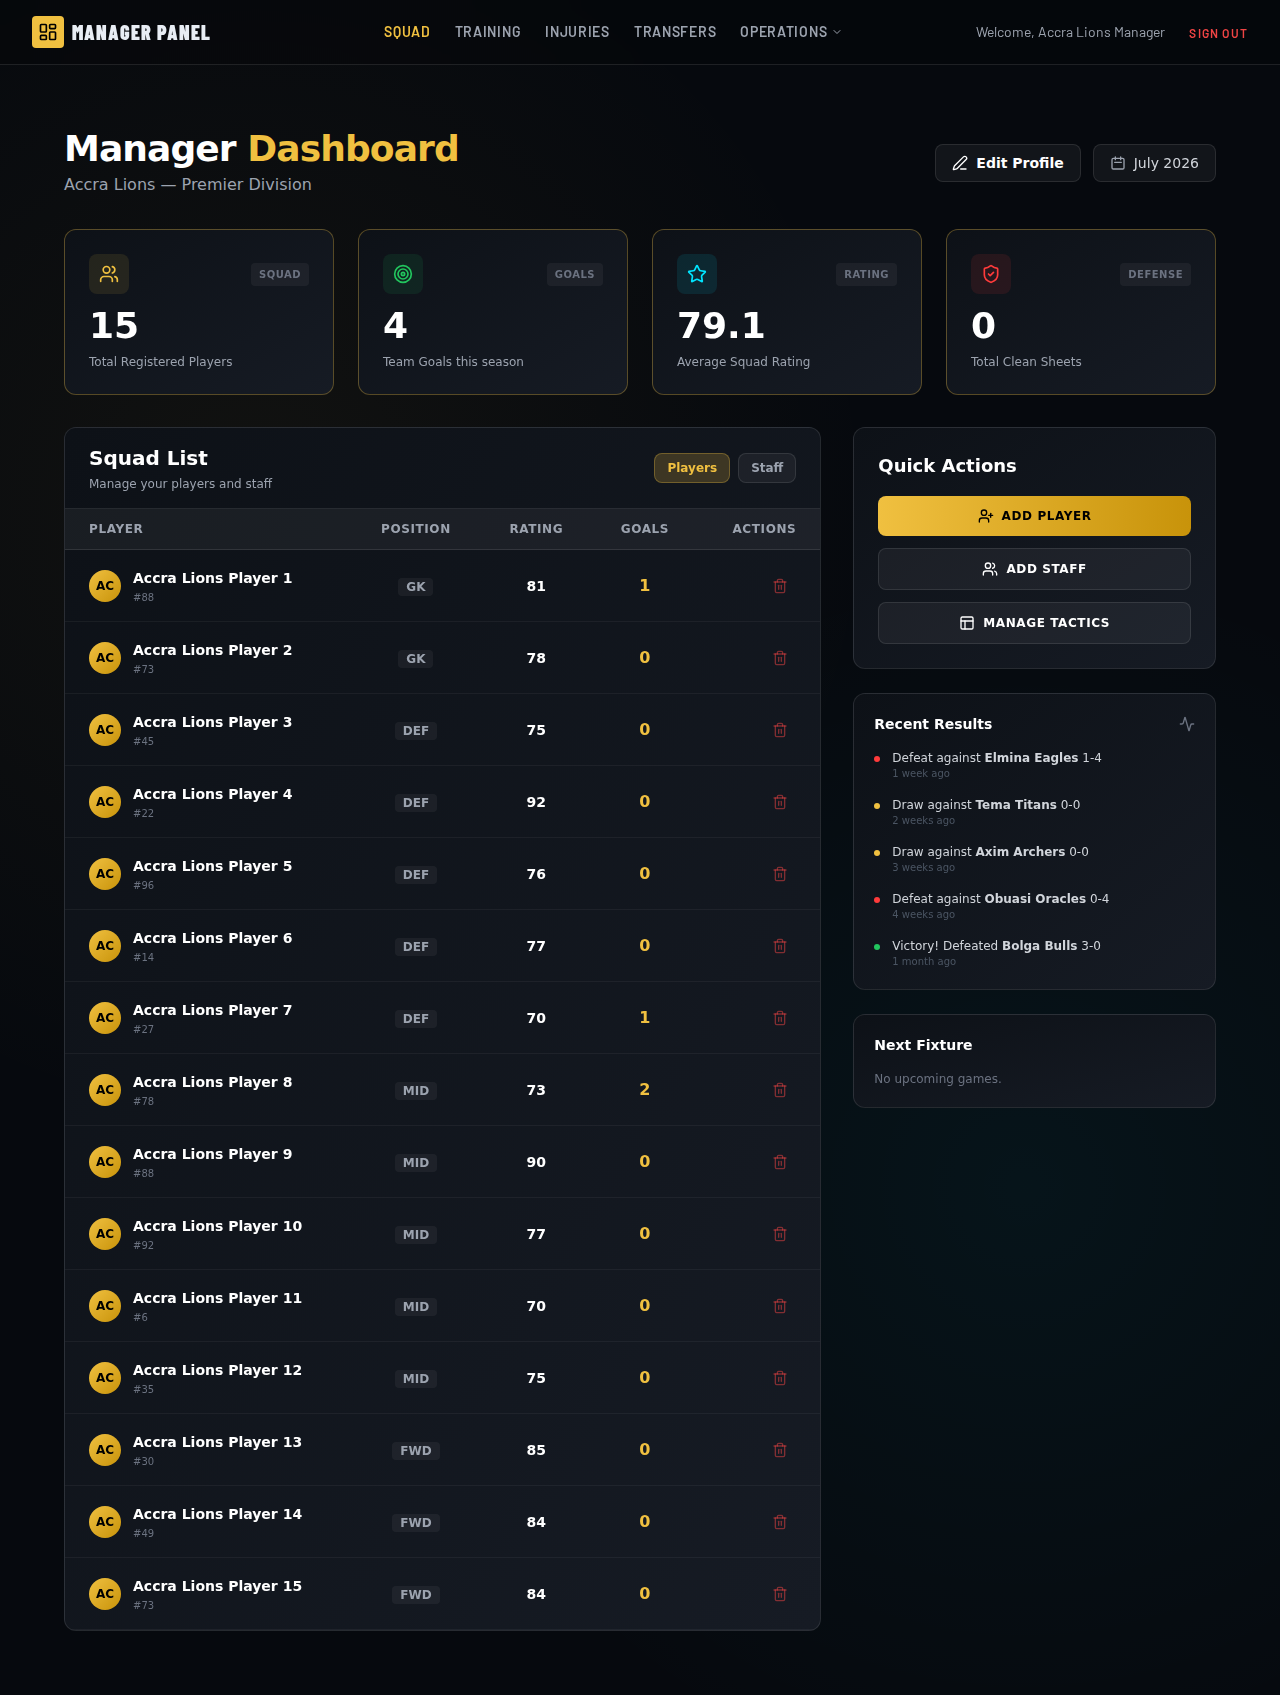
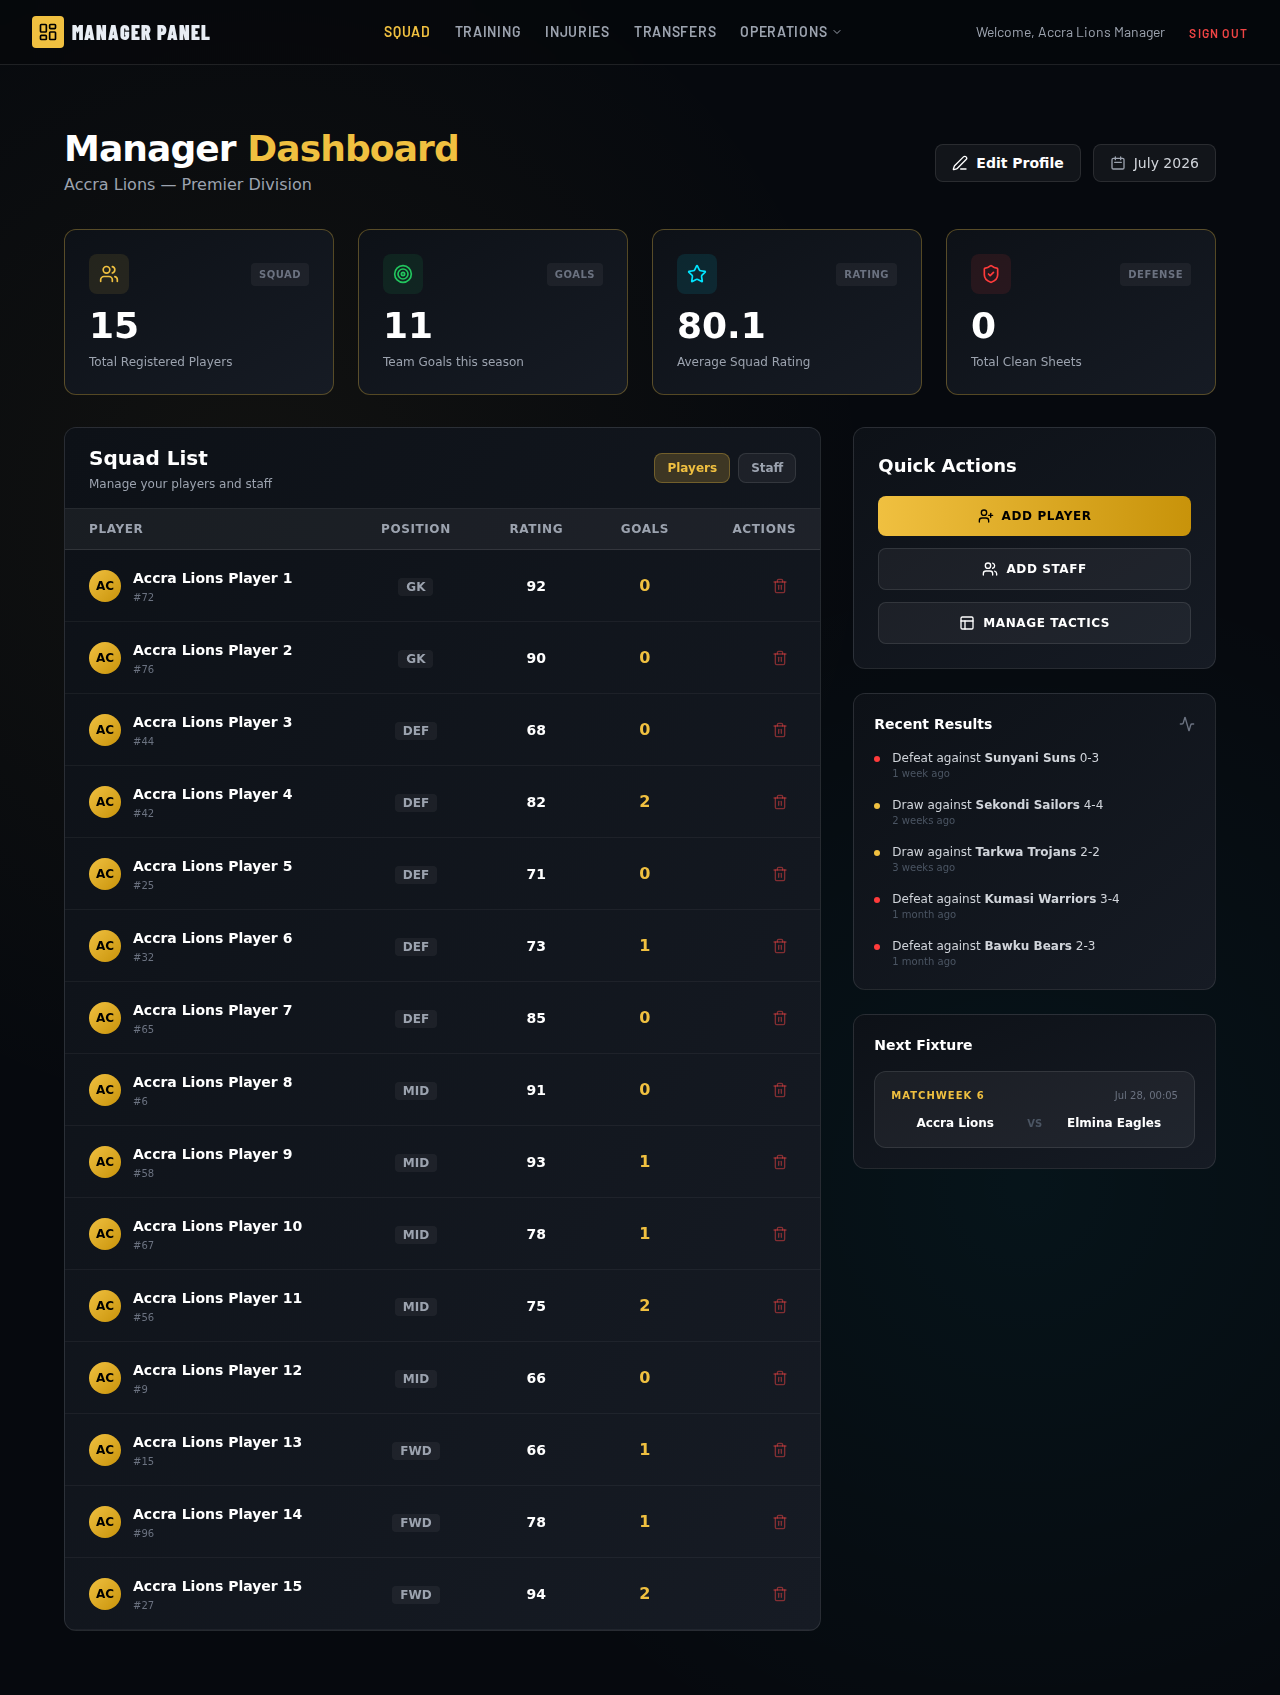
Enhance League Statistics page with interactive tabs and advanced metrics
- Added Golden Glove (Clean Sheets), Top Rated Players, and Man of the Match leaders.
- Implemented a tabbed interface using Tailwind CSS for category filtering (Attacking, Defending, Discipline).
- Optimized database queries in StatsController.php to support the new statistical lists.

diff --git a/resources/views/stats.blade.php b/resources/views/stats.blade.php
@@ -15,18 +15,29 @@
         .bg-gold { background-color: #f0c040; }
     </style>
 </head>
-<body class="p-4 md:p-8">
+<body class="p-4 md:p-8 min-h-screen">
     <div class="max-w-6xl mx-auto">
-        <div class="flex items-center justify-between mb-8">
-            <a href="{{ route('home') }}" class="accent-gold hover:underline">← Back to Home</a>
-            <h1 class="font-display text-5xl md:text-6xl tracking-tight">League Statistics</h1>
+        <!-- Header -->
+        <div class="flex flex-col sm:flex-row items-center justify-between gap-4 mb-8 border-b border-white/10 pb-6">
+            <div>
+                <a href="{{ route('home') }}" class="accent-gold hover:underline text-sm md:text-base">← Back to Home</a>
+                <h1 class="font-display text-5xl md:text-7xl tracking-tight mt-2">League Statistics</h1>
+                <p class="text-sm text-gray-400 mt-1">Official player performance leaders for Season 2024/25</p>
+            </div>
+            <!-- Tab Controls -->
+            <div class="flex items-center gap-2 bg-white/5 border border-white/10 rounded-xl p-1">
+                <button onclick="switchTab('attacking')" id="btn-attacking" class="px-4 py-2 text-sm font-semibold rounded-lg bg-gold text-black transition-all">Attacking</button>
+                <button onclick="switchTab('defending')" id="btn-defending" class="px-4 py-2 text-sm font-semibold rounded-lg text-gray-400 hover:text-white transition-all">Goalkeeping & Defending</button>
+                <button onclick="switchTab('discipline')" id="btn-discipline" class="px-4 py-2 text-sm font-semibold rounded-lg text-gray-400 hover:text-white transition-all">Discipline & Appearances</button>
+            </div>
         </div>
 
-        <div class="grid grid-cols-1 md:grid-cols-2 gap-8">
+        <!-- Attacking Tab Content -->
+        <div id="tab-attacking" class="tab-content grid grid-cols-1 md:grid-cols-3 gap-8">
             <!-- Goals Section -->
             <section class="space-y-4">
-                <h2 class="font-display text-4xl border-b border-white/10 pb-2 flex items-center gap-3">
-                    <span class="text-2xl">⚽</span> Top Scorers
+                <h2 class="font-display text-3xl pb-1 flex items-center gap-3">
+                    <span class="text-xl">⚽</span> Top Scorers
                 </h2>
                 <div class="glass-card overflow-hidden">
                     @forelse($topScorers as $index => $player)
@@ -34,22 +45,22 @@
                             <div class="flex items-center gap-4">
                                 <span class="font-display text-2xl w-6 text-center {{ $index < 3 ? 'accent-gold' : 'text-gray-500' }}">{{ $index + 1 }}</span>
                                 <div>
-                                    <div class="font-bold">{{ $player->name }}</div>
+                                    <div class="font-bold text-sm">{{ $player->name }}</div>
                                     <div class="text-[10px] text-gray-500 uppercase font-bold">{{ $player->team->team_name }}</div>
                                 </div>
                             </div>
-                            <div class="font-display text-3xl accent-gold">{{ $player->goals }}</div>
+                            <div class="font-display text-2xl accent-gold">{{ $player->goals }}</div>
                         </div>
                     @empty
-                        <p class="p-8 text-center text-gray-500">No goals recorded yet.</p>
+                        <p class="p-8 text-center text-gray-500 text-sm">No goals recorded yet.</p>
                     @endforelse
                 </div>
             </section>
 
             <!-- Assists Section -->
             <section class="space-y-4">
-                <h2 class="font-display text-4xl border-b border-white/10 pb-2 flex items-center gap-3">
-                    <span class="text-2xl">👟</span> Top Assists
+                <h2 class="font-display text-3xl pb-1 flex items-center gap-3">
+                    <span class="text-xl">👟</span> Top Assists
                 </h2>
                 <div class="glass-card overflow-hidden">
                     @forelse($topAssists as $index => $player)
@@ -57,59 +68,176 @@
                             <div class="flex items-center gap-4">
                                 <span class="font-display text-2xl w-6 text-center {{ $index < 3 ? 'accent-gold' : 'text-gray-500' }}">{{ $index + 1 }}</span>
                                 <div>
-                                    <div class="font-bold">{{ $player->name }}</div>
+                                    <div class="font-bold text-sm">{{ $player->name }}</div>
                                     <div class="text-[10px] text-gray-500 uppercase font-bold">{{ $player->team->team_name }}</div>
                                 </div>
                             </div>
-                            <div class="font-display text-3xl text-blue-400">{{ $player->assists }}</div>
+                            <div class="font-display text-2xl text-blue-400">{{ $player->assists }}</div>
                         </div>
                     @empty
-                        <p class="p-8 text-center text-gray-500">No assists recorded yet.</p>
+                        <p class="p-8 text-center text-gray-500 text-sm">No assists recorded yet.</p>
+                    @endforelse
+                </div>
+            </section>
+
+            <!-- MOTM Section -->
+            <section class="space-y-4">
+                <h2 class="font-display text-3xl pb-1 flex items-center gap-3">
+                    <span class="text-xl">⭐</span> Man of the Match
+                </h2>
+                <div class="glass-card overflow-hidden">
+                    @forelse($mostMOTM as $index => $player)
+                        <div class="flex items-center justify-between p-4 {{ !$loop->last ? 'border-b border-white/5' : '' }} hover:bg-white/5 transition-colors">
+                            <div class="flex items-center gap-4">
+                                <span class="font-display text-2xl w-6 text-center {{ $index < 3 ? 'accent-gold' : 'text-gray-500' }}">{{ $index + 1 }}</span>
+                                <div>
+                                    <div class="font-bold text-sm">{{ $player->name }}</div>
+                                    <div class="text-[10px] text-gray-500 uppercase font-bold">{{ $player->team->team_name }}</div>
+                                </div>
+                            </div>
+                            <div class="font-display text-2xl text-purple-400">{{ $player->motm_awards }}</div>
+                        </div>
+                    @empty
+                        <p class="p-8 text-center text-gray-500 text-sm">No MOTM awards recorded.</p>
                     @endforelse
                 </div>
             </section>
         </div>
 
-        <div class="grid grid-cols-1 md:grid-cols-3 gap-8 mt-12">
+        <!-- Defending Tab Content -->
+        <div id="tab-defending" class="tab-content hidden grid grid-cols-1 md:grid-cols-2 gap-8">
+            <!-- Clean Sheets -->
+            <section class="space-y-4">
+                <h2 class="font-display text-3xl pb-1 flex items-center gap-3">
+                    <span class="text-xl">🧤</span> Clean Sheets (Golden Glove)
+                </h2>
+                <div class="glass-card overflow-hidden">
+                    @forelse($goldenGlove as $index => $player)
+                        <div class="flex items-center justify-between p-4 {{ !$loop->last ? 'border-b border-white/5' : '' }} hover:bg-white/5 transition-colors">
+                            <div class="flex items-center gap-4">
+                                <span class="font-display text-2xl w-6 text-center {{ $index < 3 ? 'accent-gold' : 'text-gray-500' }}">{{ $index + 1 }}</span>
+                                <div>
+                                    <div class="font-bold text-sm">{{ $player->name }}</div>
+                                    <div class="text-[10px] text-gray-500 uppercase font-bold">{{ $player->team->team_name }}</div>
+                                </div>
+                            </div>
+                            <div class="font-display text-2xl text-green-400">{{ $player->clean_sheets }}</div>
+                        </div>
+                    @empty
+                        <p class="p-8 text-center text-gray-500 text-sm">No clean sheets recorded yet.</p>
+                    @endforelse
+                </div>
+            </section>
+
+            <!-- Top Rated Players -->
+            <section class="space-y-4">
+                <h2 class="font-display text-3xl pb-1 flex items-center gap-3">
+                    <span class="text-xl">📈</span> Top Rated Players
+                </h2>
+                <div class="glass-card overflow-hidden">
+                    @forelse($topRated as $index => $player)
+                        <div class="flex items-center justify-between p-4 {{ !$loop->last ? 'border-b border-white/5' : '' }} hover:bg-white/5 transition-colors">
+                            <div class="flex items-center gap-4">
+                                <span class="font-display text-2xl w-6 text-center {{ $index < 3 ? 'accent-gold' : 'text-gray-500' }}">{{ $index + 1 }}</span>
+                                <div>
+                                    <div class="font-bold text-sm">{{ $player->name }}</div>
+                                    <div class="text-[10px] text-gray-500 uppercase font-bold">{{ $player->team->team_name }}</div>
+                                </div>
+                            </div>
+                            <div class="font-display text-2xl text-yellow-500">{{ $player->rating }}</div>
+                        </div>
+                    @empty
+                        <p class="p-8 text-center text-gray-500 text-sm">No rated players.</p>
+                    @endforelse
+                </div>
+            </section>
+        </div>
+
+        <!-- Discipline & Appearances Tab Content -->
+        <div id="tab-discipline" class="tab-content hidden grid grid-cols-1 md:grid-cols-3 gap-8">
             <!-- Yellow Cards -->
             <section class="space-y-4">
-                <h2 class="font-display text-3xl border-b border-white/10 pb-2">🟨 Yellow Cards</h2>
+                <h2 class="font-display text-3xl pb-1 flex items-center gap-3">
+                    <span class="text-xl">🟨</span> Yellow Cards
+                </h2>
                 <div class="glass-card overflow-hidden">
-                    @foreach($mostYellowCards as $player)
-                        <div class="flex items-center justify-between p-3 border-b border-white/5 text-sm">
-                            <div class="font-semibold">{{ $player->name }}</div>
-                            <div class="font-display text-xl accent-gold">{{ $player->yellow_cards }}</div>
+                    @forelse($mostYellowCards as $index => $player)
+                        <div class="flex items-center justify-between p-4 border-b border-white/5 hover:bg-white/5 transition-colors text-sm">
+                            <div>
+                                <div class="font-semibold">{{ $player->name }}</div>
+                                <div class="text-[10px] text-gray-500 uppercase font-bold">{{ $player->team->team_name }}</div>
+                            </div>
+                            <div class="font-display text-2xl accent-gold">{{ $player->yellow_cards }}</div>
                         </div>
-                    @endforeach
+                    @empty
+                        <p class="p-8 text-center text-gray-500 text-sm">No yellow cards recorded.</p>
+                    @endforelse
                 </div>
             </section>
 
             <!-- Red Cards -->
             <section class="space-y-4">
-                <h2 class="font-display text-3xl border-b border-white/10 pb-2">🟥 Red Cards</h2>
+                <h2 class="font-display text-3xl pb-1 flex items-center gap-3">
+                    <span class="text-xl">🟥</span> Red Cards
+                </h2>
                 <div class="glass-card overflow-hidden">
-                    @foreach($mostRedCards as $player)
-                        <div class="flex items-center justify-between p-3 border-b border-white/5 text-sm">
-                            <div class="font-semibold">{{ $player->name }}</div>
-                            <div class="font-display text-xl text-red-500">{{ $player->red_cards }}</div>
+                    @forelse($mostRedCards as $index => $player)
+                        <div class="flex items-center justify-between p-4 border-b border-white/5 hover:bg-white/5 transition-colors text-sm">
+                            <div>
+                                <div class="font-semibold">{{ $player->name }}</div>
+                                <div class="text-[10px] text-gray-500 uppercase font-bold">{{ $player->team->team_name }}</div>
+                            </div>
+                            <div class="font-display text-2xl text-red-500">{{ $player->red_cards }}</div>
                         </div>
-                    @endforeach
+                    @empty
+                        <p class="p-8 text-center text-gray-500 text-sm">No red cards recorded.</p>
+                    @endforelse
                 </div>
             </section>
 
             <!-- Appearances -->
             <section class="space-y-4">
-                <h2 class="font-display text-3xl border-b border-white/10 pb-2">🏟 Appearances</h2>
+                <h2 class="font-display text-3xl pb-1 flex items-center gap-3">
+                    <span class="text-xl">🏟</span> Appearances
+                </h2>
                 <div class="glass-card overflow-hidden">
-                    @foreach($mostAppearances as $player)
-                        <div class="flex items-center justify-between p-3 border-b border-white/5 text-sm">
-                            <div class="font-semibold">{{ $player->name }}</div>
-                            <div class="font-display text-xl text-green-400">{{ $player->appearances }}</div>
+                    @forelse($mostAppearances as $index => $player)
+                        <div class="flex items-center justify-between p-4 border-b border-white/5 hover:bg-white/5 transition-colors text-sm">
+                            <div>
+                                <div class="font-semibold">{{ $player->name }}</div>
+                                <div class="text-[10px] text-gray-500 uppercase font-bold">{{ $player->team->team_name }}</div>
+                            </div>
+                            <div class="font-display text-2xl text-green-400">{{ $player->appearances }}</div>
                         </div>
-                    @endforeach
+                    @empty
+                        <p class="p-8 text-center text-gray-500 text-sm">No appearances recorded.</p>
+                    @endforelse
                 </div>
             </section>
         </div>
     </div>
+
+    <script>
+        function switchTab(tabId) {
+            // Hide all tab contents
+            document.querySelectorAll('.tab-content').forEach(function(el) {
+                el.classList.add('hidden');
+            });
+
+            // Reset tab buttons styling
+            document.querySelectorAll('button[id^="btn-"]').forEach(function(el) {
+                el.classList.remove('bg-gold', 'text-black');
+                el.classList.add('text-gray-400', 'hover:text-white');
+            });
+
+            // Show active tab content
+            document.getElementById('tab-' + tabId).classList.remove('hidden');
+
+            // Style active tab button
+            var activeBtn = document.getElementById('btn-' + tabId);
+            activeBtn.classList.add('bg-gold', 'text-black');
+            activeBtn.classList.remove('text-gray-400', 'hover:text-white');
+        }
+    </script>
 </body>
 </html>

diff --git a/verify_stats.py b/verify_stats.py
@@ -1,0 +1,36 @@
+import asyncio
+from playwright.async_api import async_playwright
+import os
+
+async def verify_stats_page():
+    async with async_playwright() as p:
+        browser = await p.chromium.launch()
+        context = await browser.new_context(viewport={'width': 1280, 'height': 800})
+        page = await context.new_page()
+
+        print("Navigating to League Statistics page...")
+        await page.goto("http://localhost:8000/stats")
+        await page.wait_for_selector("text=League Statistics")
+        print("Stats page loaded successfully.")
+
+        # Take screenshot of the Attacking tab
+        os.makedirs('verification/screenshots', exist_ok=True)
+        await page.screenshot(path='verification/screenshots/stats_attacking.png', full_page=True)
+        print("Attacking stats screenshot saved.")
+
+        # Switch to Defending tab
+        await page.click("#btn-defending")
+        await page.wait_for_timeout(500)
+        await page.screenshot(path='verification/screenshots/stats_defending.png', full_page=True)
+        print("Defending stats screenshot saved.")
+
+        # Switch to Discipline tab
+        await page.click("#btn-discipline")
+        await page.wait_for_timeout(500)
+        await page.screenshot(path='verification/screenshots/stats_discipline.png', full_page=True)
+        print("Discipline stats screenshot saved.")
+
+        await browser.close()
+
+if __name__ == "__main__":
+    asyncio.run(verify_stats_page())

diff --git a/app/Http/Controllers/StatsController.php b/app/Http/Controllers/StatsController.php
@@ -21,6 +21,18 @@ class StatsController extends Controller
             ->take(20)
             ->get();
 
+        $topRated = Player::with('team')
+            ->where('rating', '>', 0)
+            ->orderBy('rating', 'desc')
+            ->take(10)
+            ->get();
+
+        $mostMOTM = Player::with('team')
+            ->where('motm_awards', '>', 0)
+            ->orderBy('motm_awards', 'desc')
+            ->take(10)
+            ->get();
+
         $mostYellowCards = Player::with('team')
             ->where('yellow_cards', '>', 0)
             ->orderBy('yellow_cards', 'desc')
@@ -39,6 +51,21 @@ class StatsController extends Controller
             ->take(10)
             ->get();
 
-        return view('stats', compact('topScorers', 'topAssists', 'mostYellowCards', 'mostRedCards', 'mostAppearances'));
+        $goldenGlove = Player::with('team')
+            ->where('clean_sheets', '>', 0)
+            ->orderBy('clean_sheets', 'desc')
+            ->take(10)
+            ->get();
+
+        return view('stats', compact(
+            'topScorers',
+            'topAssists',
+            'topRated',
+            'mostMOTM',
+            'mostYellowCards',
+            'mostRedCards',
+            'mostAppearances',
+            'goldenGlove'
+        ));
     }
 }

diff --git a/routes/web.php b/routes/web.php
@@ -31,6 +31,7 @@ Route::post('/vote', [VoteController::class, 'store'])->name('vote.store');
 Route::post('/predictions', [PredictionController::class, 'store'])->name('predictions.store');
 
 // Public pages
+use App\Http\Controllers\TeamController;
 Route::get('/', [HomeController::class, 'index'])->name('home');
 Route::get('/teams/{id}', [TeamController::class, 'showPublic'])->name('teams.show');
 Route::get('/players/{id}', [PlayerController::class, 'showPublic'])->name('players.show');
